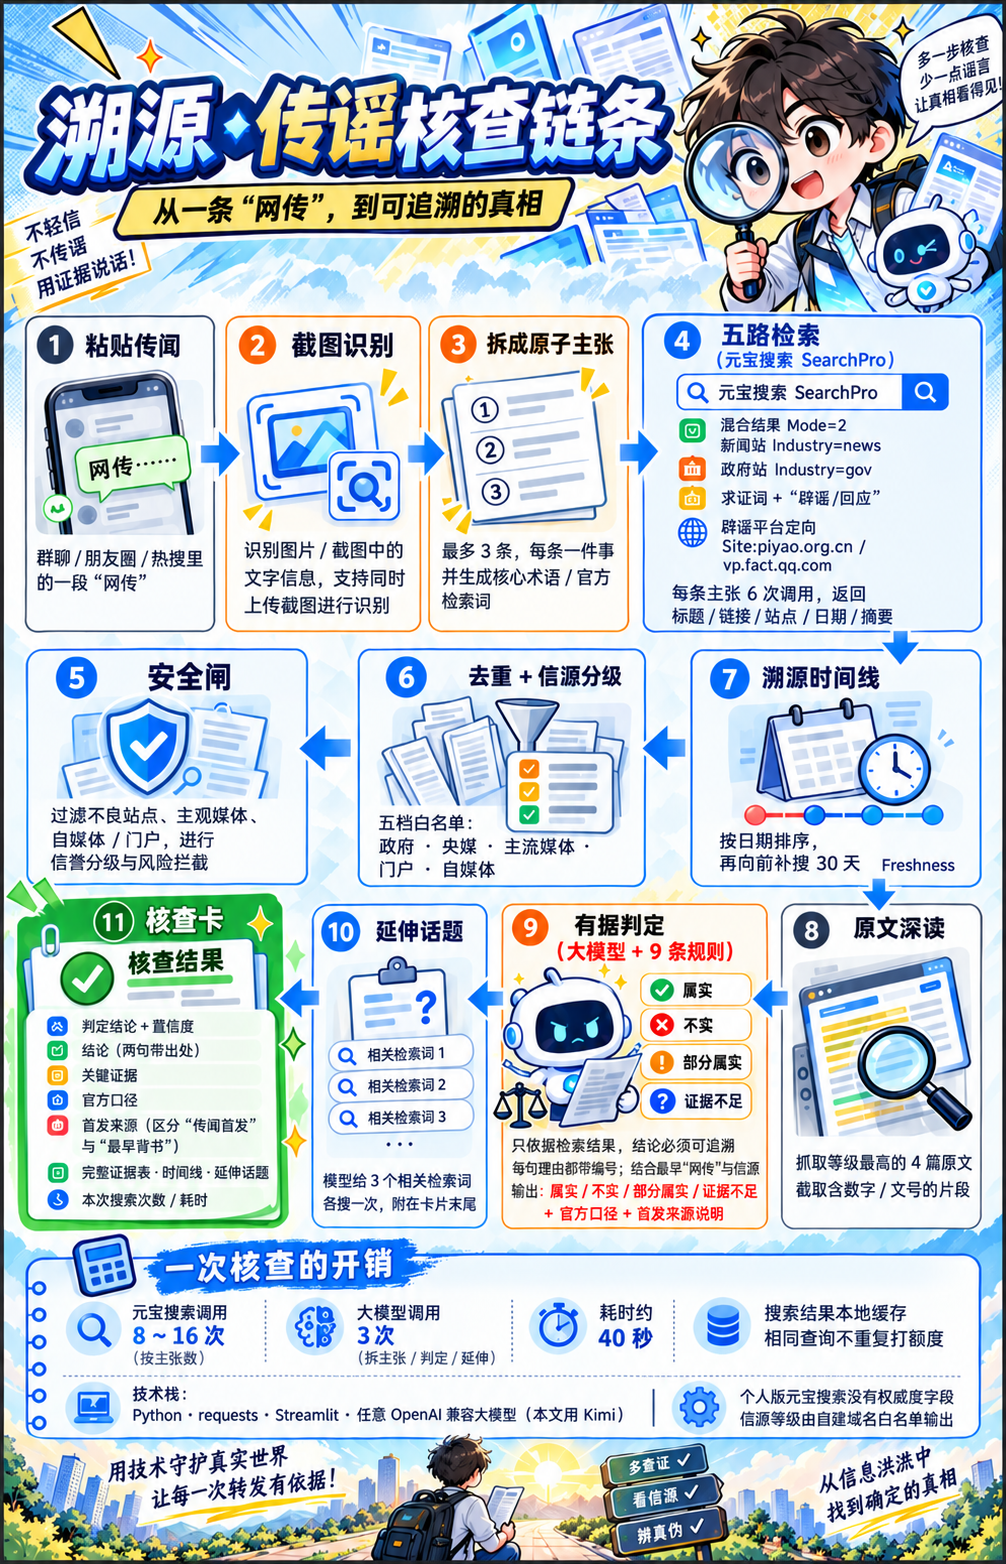
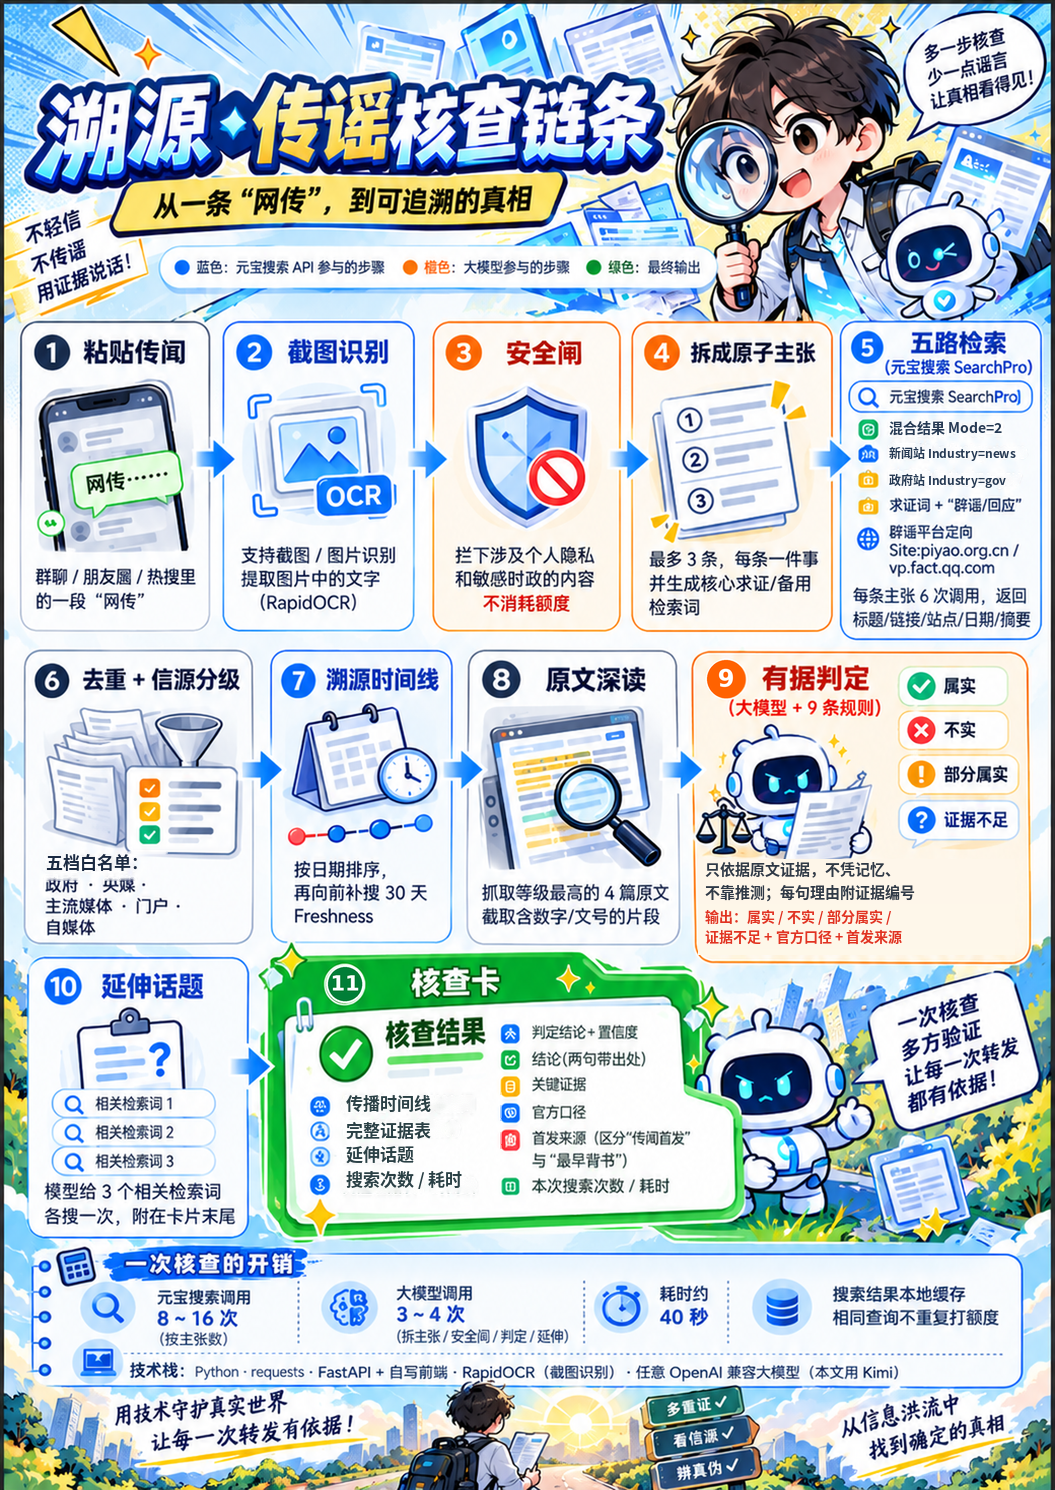
更新宣传海报（修正文字）

diff --git a/web/index.html b/web/index.html
@@ -210,7 +210,7 @@
   <section class="about" id="about" aria-labelledby="aboutTitle">
     <div class="wrap about__grid">
       <figure class="about__poster" data-reveal>
-        <img src="/static/assets/poster.jpg" alt="溯源 项目海报" loading="lazy" width="1006" height="1564">
+        <img src="/static/assets/poster.jpg" alt="溯源 项目海报" loading="lazy" width="1055" height="1490">
       </figure>
       <div class="about__body">
         <header class="sec-head" data-reveal>
